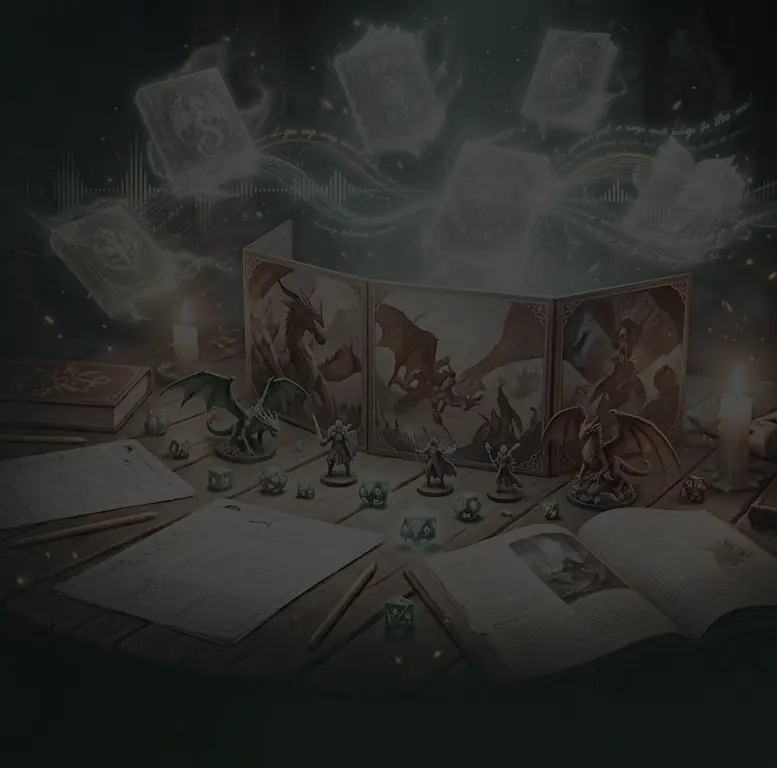
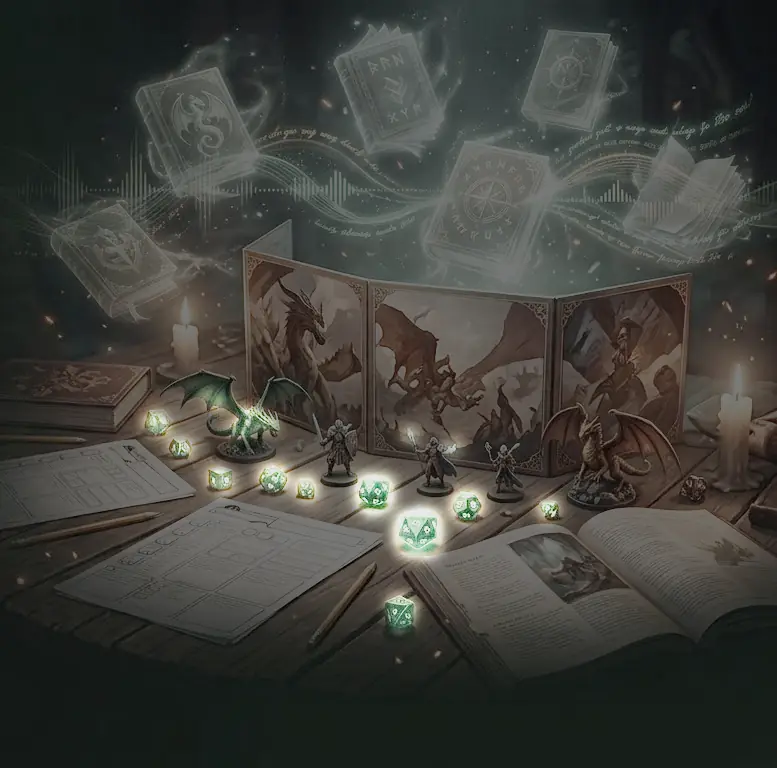
Artwork: stronger, with the dice lifted so they stand out
The picture was too faint. The overall cap and strength go up, the glowing dice are found by
colour and lifted, phones run at half strength (text spans their width) with the fade moved
down so the dice show, and the wide fade is wider. Bare text measured at 4.7:1 or better on the
home, prices and Q&A pages.

Claude-Session: https://claude.ai/code/session_01DyQ6QZiDbMchKmt8HpXnA3

diff --git a/web/src/styles/global.css b/web/src/styles/global.css
@@ -71,7 +71,7 @@
     --warn-soft: #3a2f12;
     --danger: #f97066;
     --shadow: 0 1px 2px rgb(0 0 0 / 0.3), 0 12px 32px rgb(0 0 0 / 0.35);
-    --art-opacity: 0.65;
+    --art-opacity: 0.85;
     --page: radial-gradient(70rem 32rem at 50% -8rem, #1d3a31 0%, transparent 70%),
       linear-gradient(180deg, #13201c 0%, var(--bg) 40rem);
   }
@@ -104,11 +104,13 @@ body {
 }
 
 /*
- * The table artwork behind every page, kept quiet so words stay easy to read. It is a fixed
- * layer (it doesn't scroll or repaint), with its colour cut and its brightest parts capped
- * inside the files (scripts/make-art.py), so even the lightest pixel at --art-opacity leaves
- * muted text above 4.5:1. A mask fades it away from the text: the left side on wide screens,
- * the bottom on phones. Two crops: a wide one for computers and a tall one for phones.
+ * The table artwork behind every page, kept quiet where words sit so they stay easy to read.
+ * It is a fixed layer (it doesn't scroll or repaint), with its colour cut and its brightness
+ * capped inside the files (scripts/make-art.py); the dice are lifted so they stand out.
+ * A mask fades it away from the text: the left side on wide screens, the bottom on phones,
+ * and phones also run it at half strength because text spans their whole width. Bare text
+ * measured at 4.7:1 or better against it (first screen of the home, prices and Q&A pages).
+ * Two crops: a wide one for computers and a tall one for phones.
  * Decorative only, so it lives in CSS and screen readers never see it.
  * Keep body and html free of position, transform, filter, isolation and z-index: any of them
  * would put this layer behind the body's own background and hide it.
@@ -125,16 +127,18 @@ body::before {
   z-index: -1;
   pointer-events: none;
   background: url("/art/table-tall.webp") 78% 0 / cover no-repeat;
-  opacity: var(--art-opacity);
-  -webkit-mask-image: linear-gradient(to bottom, #000 0%, transparent 80%);
-  mask-image: linear-gradient(to bottom, #000 0%, transparent 80%);
+  /* Phones put text across the whole width, so the picture is quieter there. */
+  opacity: calc(var(--art-opacity) * 0.5);
+  -webkit-mask-image: linear-gradient(to bottom, #000 0%, #000 50%, transparent 100%);
+  mask-image: linear-gradient(to bottom, #000 0%, #000 50%, transparent 100%);
 }
 
 @media (min-width: 48rem) {
   body::before {
     background: url("/art/table-wide.webp") right top / cover no-repeat;
-    -webkit-mask-image: linear-gradient(to right, transparent 25%, #000 75%);
-    mask-image: linear-gradient(to right, transparent 25%, #000 75%);
+    opacity: var(--art-opacity);
+    -webkit-mask-image: linear-gradient(to right, transparent 32%, #000 82%);
+    mask-image: linear-gradient(to right, transparent 32%, #000 82%);
   }
 }
 

diff --git a/web/test/background.test.ts b/web/test/background.test.ts
@@ -42,12 +42,12 @@ describe("background artwork", () => {
     expect(headers).not.toMatch(/\/art\/\*\s+Cache-Control:[^\n]*immutable/);
   });
 
-  it("stays quiet: dark pages at most 0.7, light pages a faint haze", () => {
+  it("stays quiet: dark pages at most 0.9, light pages a faint haze", () => {
     const tokens = [...css.matchAll(/--art-opacity: ([\d.]+)/g)].map((m) => Number(m[1]));
     expect(tokens).toHaveLength(2);
     const [light, dark] = tokens as [number, number];
     expect(light).toBeLessThanOrEqual(0.2);
-    expect(dark).toBeLessThanOrEqual(0.7);
+    expect(dark).toBeLessThanOrEqual(0.9);
     expect(css.match(/body::before \{[^}]*opacity: var\(--art-opacity\)/)).not.toBeNull();
   });
 });

diff --git a/web/scripts/make-art.py b/web/scripts/make-art.py
@@ -4,35 +4,56 @@ Usage: python3 scripts/make-art.py path/to/artwork.jpg   (needs Pillow and numpy
 
 Why the pictures are changed, not just resized: the page puts words over them, so the colour is
 cut to about half and the brightest parts are capped (a soft knee, so glows stay glowing but
-never get bright enough to hurt the contrast of the words on top). With --art-opacity in
-global.css, the lightest pixel on the page is still dark enough for muted text to pass 4.5:1.
-If you swap the artwork or change CAP or the opacity, re-check that ratio.
+never get bright enough to hurt the words on top). The dice are the exception: they are found
+by colour and lifted so they stand out. Words sit on cards and on the faded left side, and
+the dice are far from where bare text goes, so the lift doesn't hurt reading. If you swap the
+artwork or change CAP, DICE_CAP or --art-opacity, look at the pages again.
 """
 import sys
 from pathlib import Path
 
 import numpy as np
-from PIL import Image, ImageEnhance
+from PIL import Image, ImageEnhance, ImageFilter
 
-CAP = 76.0  # the brightest a pixel can get (out of 255)
-KNEE = 60.0  # how quickly pixels reach the cap
+CAP = 128.0  # the brightest a pixel can get (out of 255)
+KNEE = 80.0  # how quickly pixels reach the cap
+DICE_CAP = 235.0  # the dice are the part people look for, so they may get much brighter
+DICE_LIFT = 2.4  # how much brighter the dice are made before the cap
 OUT = Path(__file__).resolve().parent.parent / "public" / "art"
 
 
-def prepare(image: Image.Image) -> Image.Image:
-    image = ImageEnhance.Color(image).enhance(0.55)  # partly saturated
-    pixels = CAP * (1 - np.exp(-np.asarray(image, float) / KNEE))
-    return Image.fromarray(np.clip(pixels, 0, 255).astype("uint8"))
+def dice_mask(image: Image.Image) -> np.ndarray:
+    """0..1 mask of the green glowing dice on the table (found by colour; they are small,
+    saturated green shapes in the lower right), grown and softened so there is a glow."""
+    hsv = np.asarray(image.convert("HSV"), float)
+    hue, sat, val = hsv[..., 0] * 360 / 255, hsv[..., 1] / 255, hsv[..., 2] / 255
+    found = (hue > 95) & (hue < 175) & (sat > 0.30) & (val > 0.22)
+    height, width = found.shape
+    found[: int(height * 0.515)] = False  # the green mist and books above the table
+    found[:, : int(width * 0.51)] = False  # the empty left side
+    mask = Image.fromarray((found * 255).astype("uint8")).filter(ImageFilter.MaxFilter(9))
+    mask = mask.filter(ImageFilter.GaussianBlur(7))
+    return np.clip(np.asarray(mask, float) / 255 * 2.2, 0, 1)
+
+
+def prepare(image: Image.Image, dice: np.ndarray) -> Image.Image:
+    toned = ImageEnhance.Color(image).enhance(0.55)  # partly saturated
+    plain = CAP * (1 - np.exp(-np.asarray(toned, float) / KNEE))
+    bright = DICE_CAP * (1 - np.exp(-np.asarray(image, float) * DICE_LIFT / KNEE / 1.3))
+    weight = dice[..., None]
+    return Image.fromarray(np.clip(plain * (1 - weight) + bright * weight, 0, 255).astype("uint8"))
 
 
 def main(source: str) -> None:
     art = Image.open(source).convert("RGB")
     width, height = art.size
+    dice = dice_mask(art)
     OUT.mkdir(parents=True, exist_ok=True)
-    prepare(art).save(OUT / "table-wide.webp", "WEBP", quality=70, method=6)
+    prepare(art, dice).save(OUT / "table-wide.webp", "WEBP", quality=72, method=6)
     # The phone crop drops the empty left side of the wide picture and keeps the artwork.
-    prepare(art.crop((int(width * 0.436), 0, width, height))).save(
-        OUT / "table-tall.webp", "WEBP", quality=70, method=6
+    left = int(width * 0.436)
+    prepare(art.crop((left, 0, width, height)), dice[:, left:]).save(
+        OUT / "table-tall.webp", "WEBP", quality=72, method=6
     )
 
 

diff --git a/web/README.md b/web/README.md
@@ -89,8 +89,9 @@ routes) and keeps nothing in the browser but the API's HttpOnly cookie. With
 `public/art/table-wide.webp` (computers) and `table-tall.webp` (phones) sit behind every page
 (`body::before` in `src/styles/global.css`, strength in `--art-opacity`). The owner supplied the
 artwork on 2026-10-09; its origin and licence are for the owner to confirm in the PR. The files
-are made by `scripts/make-art.py` (half the colour, brightest parts capped) so words on top stay
-above 4.5:1 contrast. To change the picture, run the script on the new file and check the ratio.
+are made by `scripts/make-art.py` (half the colour, brightest parts capped, the dice lifted so they
+stand out). Bare text over the art measured 4.7:1 or better on the home, prices and Q&A pages.
+To change the picture, run the script on the new file and look at those pages again.
 They are cached for a day (their names have no hash), so a new picture can take a day to show.
 
 ## Layout
